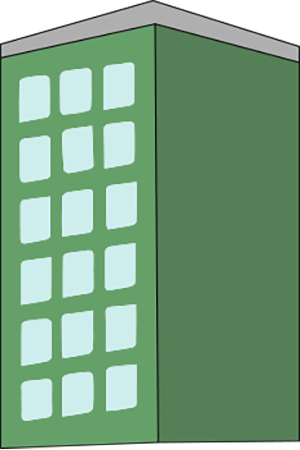
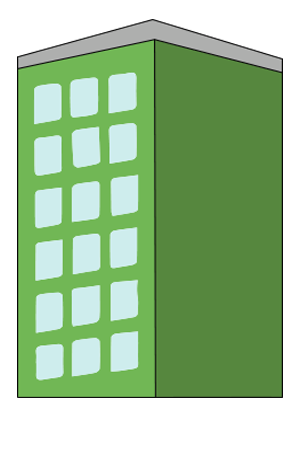
first correct function building moving

diff --git a/src/js/script.js b/src/js/script.js
@@ -30,18 +30,18 @@ obstacles[0] = {
   y: 500
 };
 let speed = 5;
-let speed_build =1.3;
-let speed_build2 =0.2;
+let speed_build =1;
+let speed_build2 = 0.2;
 /*let speed_build3 =1.5;      <Add building 3 if needed>*/
 let building = [];
 building[0] = {
   x: canvas.width,
-  y: 150
+  y: 205
 };
 let building2 = [];
 building2[0] = {
   x: canvas.width,
-  y: 150
+  y: 255
 };
 /*let building3 = [];  <Add building 3 if needed>
 building[0] = {
@@ -90,11 +90,10 @@ function build() {
   for (let i = 0; i < building.length; i++) {
     context.drawImage(fst_Building, building[i].x, building[i].y);
     building[i].x -= speed_build;
-
     if (building[i].x === 664) {
       building.push({
         x: canvas.width,
-        y: 250
+        y: 205
       });
     }
   }
@@ -103,11 +102,10 @@ function build() {
   for (let i = 0; i < building2.length; i++) {
     context.drawImage(scd_Building, building2[i].x, building2[i].y);
     building2[i].x -= speed_build2;
-
     if (building2[i].x === 664) {
       building2.push({
         x: canvas.width,
-        y: 250
+        y: 255
       });
     }
   }
@@ -146,10 +144,9 @@ function jump(event) {
 //Draw
 function draw() {
   context.drawImage(sky, 0, 0);
-  context.drawImage(scd_Building, 1166, 255);
   context.drawImage(train, 0, 300);
-  context.drawImage(streetfloor, 0, canvas.height - streetfloor.height);
   build();
+  context.drawImage(streetfloor, 0, canvas.height - streetfloor.height);
   obs();
   window.addEventListener("keydown", jump);
   context.drawImage(man, manX, manY);
